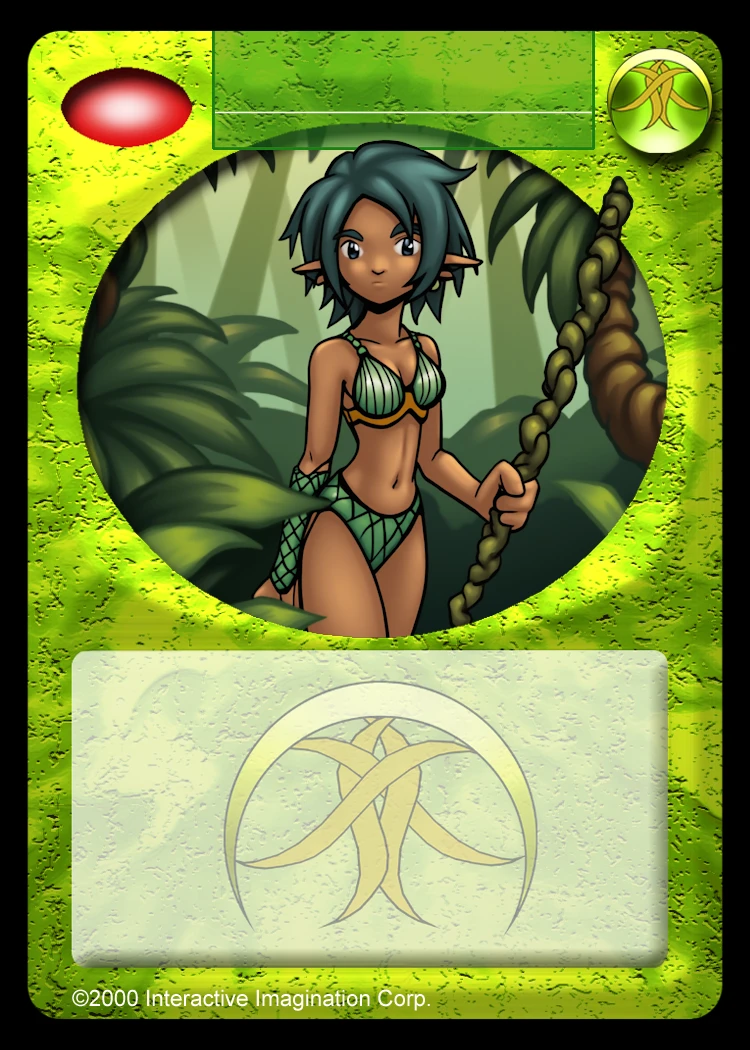
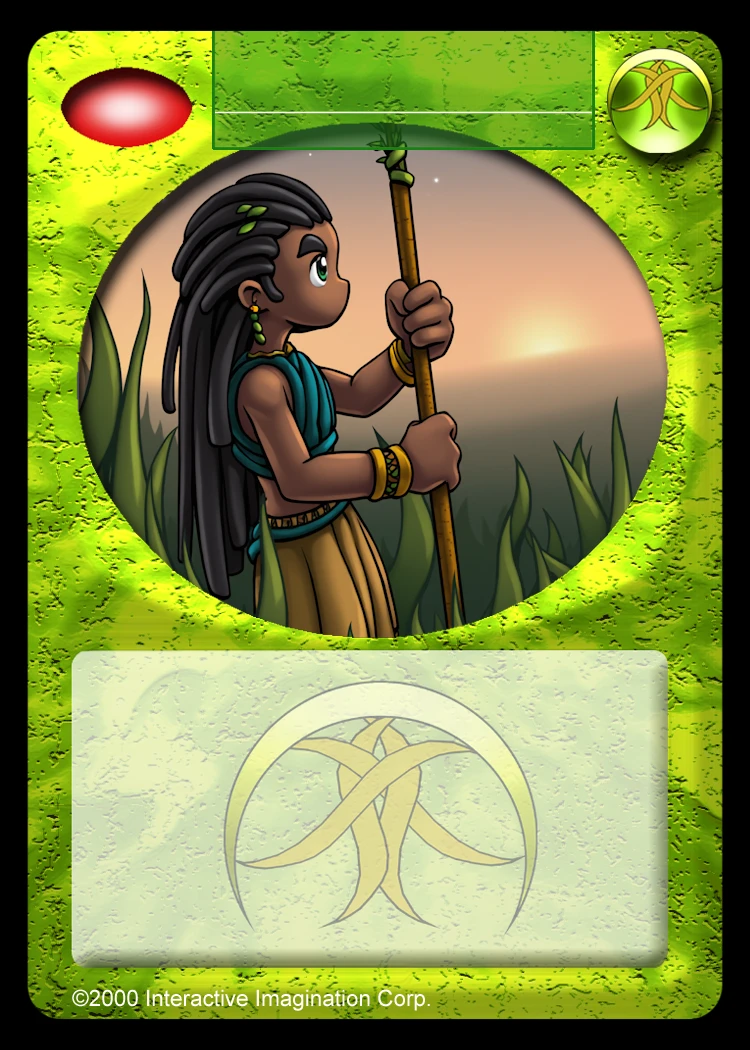
Add weave magi

Changed region(s): [[0.092, 0.1219, 0.8893, 0.6095]]

diff --git a/magi_gallery.html b/magi_gallery.html
@@ -31,6 +31,10 @@
     <img class="gallery-image" src="images/magi_gallery_thumbnails/magi_0134840.webp" data-full="images/magi_gallery/magi_0134840.webp" alt="magi_0134840" data-color="#AAAAAA" width="256" height="256">
   </div>
   <div class="gallery-item">
+    <a href="images/magi_gallery/magi_0331304.webp" style="display: none;">magi_0331304</a>
+    <img class="gallery-image" src="images/magi_gallery_thumbnails/magi_0331304.webp" data-full="images/magi_gallery/magi_0331304.webp" alt="magi_0331304" data-color="#AAAAAA" width="256" height="256">
+  </div>
+  <div class="gallery-item">
     <a href="images/magi_gallery/magi_0379159.webp" style="display: none;">magi_0379159</a>
     <img class="gallery-image" src="images/magi_gallery_thumbnails/magi_0379159.webp" data-full="images/magi_gallery/magi_0379159.webp" alt="magi_0379159" data-color="#AAAAAA" width="256" height="256">
   </div>
@@ -75,6 +79,10 @@
     <img class="gallery-image" src="images/magi_gallery_thumbnails/magi_1054220.webp" data-full="images/magi_gallery/magi_1054220.webp" alt="magi_1054220" data-color="#AAAAAA" width="256" height="256">
   </div>
   <div class="gallery-item">
+    <a href="images/magi_gallery/magi_1111011.webp" style="display: none;">magi_1111011</a>
+    <img class="gallery-image" src="images/magi_gallery_thumbnails/magi_1111011.webp" data-full="images/magi_gallery/magi_1111011.webp" alt="magi_1111011" data-color="#AAAAAA" width="256" height="256">
+  </div>
+  <div class="gallery-item">
     <a href="images/magi_gallery/magi_1159349.webp" style="display: none;">magi_1159349</a>
     <img class="gallery-image" src="images/magi_gallery_thumbnails/magi_1159349.webp" data-full="images/magi_gallery/magi_1159349.webp" alt="magi_1159349" data-color="#AAAAAA" width="256" height="256">
   </div>
@@ -103,8 +111,16 @@
     <img class="gallery-image" src="images/magi_gallery_thumbnails/magi_1961368.webp" data-full="images/magi_gallery/magi_1961368.webp" alt="magi_1961368" data-color="#AAAAAA" width="256" height="256">
   </div>
   <div class="gallery-item">
+    <a href="images/magi_gallery/magi_2015871.webp" style="display: none;">magi_2015871</a>
+    <img class="gallery-image" src="images/magi_gallery_thumbnails/magi_2015871.webp" data-full="images/magi_gallery/magi_2015871.webp" alt="magi_2015871" data-color="#AAAAAA" width="256" height="256">
+  </div>
+  <div class="gallery-item">
     <a href="images/magi_gallery/magi_2054078.webp" style="display: none;">magi_2054078</a>
     <img class="gallery-image" src="images/magi_gallery_thumbnails/magi_2054078.webp" data-full="images/magi_gallery/magi_2054078.webp" alt="magi_2054078" data-color="#AAAAAA" width="256" height="256">
+  </div>
+  <div class="gallery-item">
+    <a href="images/magi_gallery/magi_2111374.webp" style="display: none;">magi_2111374</a>
+    <img class="gallery-image" src="images/magi_gallery_thumbnails/magi_2111374.webp" data-full="images/magi_gallery/magi_2111374.webp" alt="magi_2111374" data-color="#AAAAAA" width="256" height="256">
   </div>
   <div class="gallery-item">
     <a href="images/magi_gallery/magi_2198498.webp" style="display: none;">magi_2198498</a>
@@ -113,10 +129,6 @@
   <div class="gallery-item">
     <a href="images/magi_gallery/magi_2354001.webp" style="display: none;">magi_2354001</a>
     <img class="gallery-image" src="images/magi_gallery_thumbnails/magi_2354001.webp" data-full="images/magi_gallery/magi_2354001.webp" alt="magi_2354001" data-color="#AAAAAA" width="256" height="256">
-  </div>
-  <div class="gallery-item">
-    <a href="images/magi_gallery/magi_2390470.webp" style="display: none;">magi_2390470</a>
-    <img class="gallery-image" src="images/magi_gallery_thumbnails/magi_2390470.webp" data-full="images/magi_gallery/magi_2390470.webp" alt="magi_2390470" data-color="#AAAAAA" width="256" height="256">
   </div>
   <div class="gallery-item">
     <a href="images/magi_gallery/magi_2409545.webp" style="display: none;">magi_2409545</a>
@@ -131,8 +143,8 @@
     <img class="gallery-image" src="images/magi_gallery_thumbnails/magi_2901340.webp" data-full="images/magi_gallery/magi_2901340.webp" alt="magi_2901340" data-color="#AAAAAA" width="256" height="256">
   </div>
   <div class="gallery-item">
-    <a href="images/magi_gallery/magi_2926984.webp" style="display: none;">magi_2926984</a>
-    <img class="gallery-image" src="images/magi_gallery_thumbnails/magi_2926984.webp" data-full="images/magi_gallery/magi_2926984.webp" alt="magi_2926984" data-color="#AAAAAA" width="256" height="256">
+    <a href="images/magi_gallery/magi_2964611.webp" style="display: none;">magi_2964611</a>
+    <img class="gallery-image" src="images/magi_gallery_thumbnails/magi_2964611.webp" data-full="images/magi_gallery/magi_2964611.webp" alt="magi_2964611" data-color="#AAAAAA" width="256" height="256">
   </div>
   <div class="gallery-item">
     <a href="images/magi_gallery/magi_3136130.webp" style="display: none;">magi_3136130</a>
@@ -171,12 +183,16 @@
     <img class="gallery-image" src="images/magi_gallery_thumbnails/magi_3850263.webp" data-full="images/magi_gallery/magi_3850263.webp" alt="magi_3850263" data-color="#AAAAAA" width="256" height="256">
   </div>
   <div class="gallery-item">
-    <a href="images/magi_gallery/magi_3887218.webp" style="display: none;">magi_3887218</a>
-    <img class="gallery-image" src="images/magi_gallery_thumbnails/magi_3887218.webp" data-full="images/magi_gallery/magi_3887218.webp" alt="magi_3887218" data-color="#AAAAAA" width="256" height="256">
-  </div>
-  <div class="gallery-item">
     <a href="images/magi_gallery/magi_4254749.webp" style="display: none;">magi_4254749</a>
     <img class="gallery-image" src="images/magi_gallery_thumbnails/magi_4254749.webp" data-full="images/magi_gallery/magi_4254749.webp" alt="magi_4254749" data-color="#AAAAAA" width="256" height="256">
+  </div>
+  <div class="gallery-item">
+    <a href="images/magi_gallery/magi_4256672.webp" style="display: none;">magi_4256672</a>
+    <img class="gallery-image" src="images/magi_gallery_thumbnails/magi_4256672.webp" data-full="images/magi_gallery/magi_4256672.webp" alt="magi_4256672" data-color="#AAAAAA" width="256" height="256">
+  </div>
+  <div class="gallery-item">
+    <a href="images/magi_gallery/magi_4360192.webp" style="display: none;">magi_4360192</a>
+    <img class="gallery-image" src="images/magi_gallery_thumbnails/magi_4360192.webp" data-full="images/magi_gallery/magi_4360192.webp" alt="magi_4360192" data-color="#AAAAAA" width="256" height="256">
   </div>
   <div class="gallery-item">
     <a href="images/magi_gallery/magi_4480877.webp" style="display: none;">magi_4480877</a>
@@ -195,8 +211,20 @@
     <img class="gallery-image" src="images/magi_gallery_thumbnails/magi_4834592.webp" data-full="images/magi_gallery/magi_4834592.webp" alt="magi_4834592" data-color="#AAAAAA" width="256" height="256">
   </div>
   <div class="gallery-item">
+    <a href="images/magi_gallery/magi_4938505.webp" style="display: none;">magi_4938505</a>
+    <img class="gallery-image" src="images/magi_gallery_thumbnails/magi_4938505.webp" data-full="images/magi_gallery/magi_4938505.webp" alt="magi_4938505" data-color="#AAAAAA" width="256" height="256">
+  </div>
+  <div class="gallery-item">
+    <a href="images/magi_gallery/magi_4979426.webp" style="display: none;">magi_4979426</a>
+    <img class="gallery-image" src="images/magi_gallery_thumbnails/magi_4979426.webp" data-full="images/magi_gallery/magi_4979426.webp" alt="magi_4979426" data-color="#AAAAAA" width="256" height="256">
+  </div>
+  <div class="gallery-item">
     <a href="images/magi_gallery/magi_5180833.webp" style="display: none;">magi_5180833</a>
     <img class="gallery-image" src="images/magi_gallery_thumbnails/magi_5180833.webp" data-full="images/magi_gallery/magi_5180833.webp" alt="magi_5180833" data-color="#AAAAAA" width="256" height="256">
+  </div>
+  <div class="gallery-item">
+    <a href="images/magi_gallery/magi_5185781.webp" style="display: none;">magi_5185781</a>
+    <img class="gallery-image" src="images/magi_gallery_thumbnails/magi_5185781.webp" data-full="images/magi_gallery/magi_5185781.webp" alt="magi_5185781" data-color="#AAAAAA" width="256" height="256">
   </div>
   <div class="gallery-item">
     <a href="images/magi_gallery/magi_5218910.webp" style="display: none;">magi_5218910</a>
@@ -247,6 +275,10 @@
     <img class="gallery-image" src="images/magi_gallery_thumbnails/magi_6106712.webp" data-full="images/magi_gallery/magi_6106712.webp" alt="magi_6106712" data-color="#AAAAAA" width="256" height="256">
   </div>
   <div class="gallery-item">
+    <a href="images/magi_gallery/magi_6135720.webp" style="display: none;">magi_6135720</a>
+    <img class="gallery-image" src="images/magi_gallery_thumbnails/magi_6135720.webp" data-full="images/magi_gallery/magi_6135720.webp" alt="magi_6135720" data-color="#AAAAAA" width="256" height="256">
+  </div>
+  <div class="gallery-item">
     <a href="images/magi_gallery/magi_6212484.webp" style="display: none;">magi_6212484</a>
     <img class="gallery-image" src="images/magi_gallery_thumbnails/magi_6212484.webp" data-full="images/magi_gallery/magi_6212484.webp" alt="magi_6212484" data-color="#AAAAAA" width="256" height="256">
   </div>
@@ -261,6 +293,10 @@
   <div class="gallery-item">
     <a href="images/magi_gallery/magi_6815049.webp" style="display: none;">magi_6815049</a>
     <img class="gallery-image" src="images/magi_gallery_thumbnails/magi_6815049.webp" data-full="images/magi_gallery/magi_6815049.webp" alt="magi_6815049" data-color="#AAAAAA" width="256" height="256">
+  </div>
+  <div class="gallery-item">
+    <a href="images/magi_gallery/magi_6824390.webp" style="display: none;">magi_6824390</a>
+    <img class="gallery-image" src="images/magi_gallery_thumbnails/magi_6824390.webp" data-full="images/magi_gallery/magi_6824390.webp" alt="magi_6824390" data-color="#AAAAAA" width="256" height="256">
   </div>
   <div class="gallery-item">
     <a href="images/magi_gallery/magi_6879460.webp" style="display: none;">magi_6879460</a>
@@ -283,6 +319,10 @@
     <img class="gallery-image" src="images/magi_gallery_thumbnails/magi_8184212.webp" data-full="images/magi_gallery/magi_8184212.webp" alt="magi_8184212" data-color="#AAAAAA" width="256" height="256">
   </div>
   <div class="gallery-item">
+    <a href="images/magi_gallery/magi_8360612.webp" style="display: none;">magi_8360612</a>
+    <img class="gallery-image" src="images/magi_gallery_thumbnails/magi_8360612.webp" data-full="images/magi_gallery/magi_8360612.webp" alt="magi_8360612" data-color="#AAAAAA" width="256" height="256">
+  </div>
+  <div class="gallery-item">
     <a href="images/magi_gallery/magi_8375803.webp" style="display: none;">magi_8375803</a>
     <img class="gallery-image" src="images/magi_gallery_thumbnails/magi_8375803.webp" data-full="images/magi_gallery/magi_8375803.webp" alt="magi_8375803" data-color="#AAAAAA" width="256" height="256">
   </div>
@@ -293,6 +333,14 @@
   <div class="gallery-item">
     <a href="images/magi_gallery/magi_8471537.webp" style="display: none;">magi_8471537</a>
     <img class="gallery-image" src="images/magi_gallery_thumbnails/magi_8471537.webp" data-full="images/magi_gallery/magi_8471537.webp" alt="magi_8471537" data-color="#AAAAAA" width="256" height="256">
+  </div>
+  <div class="gallery-item">
+    <a href="images/magi_gallery/magi_8569449.webp" style="display: none;">magi_8569449</a>
+    <img class="gallery-image" src="images/magi_gallery_thumbnails/magi_8569449.webp" data-full="images/magi_gallery/magi_8569449.webp" alt="magi_8569449" data-color="#AAAAAA" width="256" height="256">
+  </div>
+  <div class="gallery-item">
+    <a href="images/magi_gallery/magi_8596372.webp" style="display: none;">magi_8596372</a>
+    <img class="gallery-image" src="images/magi_gallery_thumbnails/magi_8596372.webp" data-full="images/magi_gallery/magi_8596372.webp" alt="magi_8596372" data-color="#AAAAAA" width="256" height="256">
   </div>
   <div class="gallery-item">
     <a href="images/magi_gallery/magi_8777658.webp" style="display: none;">magi_8777658</a>
@@ -313,6 +361,10 @@
   <div class="gallery-item">
     <a href="images/magi_gallery/magi_9652970.webp" style="display: none;">magi_9652970</a>
     <img class="gallery-image" src="images/magi_gallery_thumbnails/magi_9652970.webp" data-full="images/magi_gallery/magi_9652970.webp" alt="magi_9652970" data-color="#AAAAAA" width="256" height="256">
+  </div>
+  <div class="gallery-item">
+    <a href="images/magi_gallery/magi_9792527.webp" style="display: none;">magi_9792527</a>
+    <img class="gallery-image" src="images/magi_gallery_thumbnails/magi_9792527.webp" data-full="images/magi_gallery/magi_9792527.webp" alt="magi_9792527" data-color="#AAAAAA" width="256" height="256">
   </div>
   <div class="gallery-item">
     <a href="images/magi_gallery/magi_9958298.webp" style="display: none;">magi_9958298</a>

diff --git a/magi_cards.html b/magi_cards.html
@@ -107,8 +107,24 @@
     <img class="gallery-image" src="images/magi_cards_thumbnails/core_001.webp" data-full="images/magi_cards/core_001.webp" alt="core_001" data-color="#AAAAAA" width="256" height="256">
   </div>
   <div class="gallery-item">
+    <a href="images/magi_cards/core_002.webp" style="display: none;">core_002</a>
+    <img class="gallery-image" src="images/magi_cards_thumbnails/core_002.webp" data-full="images/magi_cards/core_002.webp" alt="core_002" data-color="#AAAAAA" width="256" height="256">
+  </div>
+  <div class="gallery-item">
+    <a href="images/magi_cards/core_003.webp" style="display: none;">core_003</a>
+    <img class="gallery-image" src="images/magi_cards_thumbnails/core_003.webp" data-full="images/magi_cards/core_003.webp" alt="core_003" data-color="#AAAAAA" width="256" height="256">
+  </div>
+  <div class="gallery-item">
     <a href="images/magi_cards/kybarsteeth_000.webp" style="display: none;">kybarsteeth_000</a>
     <img class="gallery-image" src="images/magi_cards_thumbnails/kybarsteeth_000.webp" data-full="images/magi_cards/kybarsteeth_000.webp" alt="kybarsteeth_000" data-color="#AAAAAA" width="256" height="256">
+  </div>
+  <div class="gallery-item">
+    <a href="images/magi_cards/nar_000.webp" style="display: none;">nar_000</a>
+    <img class="gallery-image" src="images/magi_cards_thumbnails/nar_000.webp" data-full="images/magi_cards/nar_000.webp" alt="nar_000" data-color="#AAAAAA" width="256" height="256">
+  </div>
+  <div class="gallery-item">
+    <a href="images/magi_cards/nar_001.webp" style="display: none;">nar_001</a>
+    <img class="gallery-image" src="images/magi_cards_thumbnails/nar_001.webp" data-full="images/magi_cards/nar_001.webp" alt="nar_001" data-color="#AAAAAA" width="256" height="256">
   </div>
   <div class="gallery-item">
     <a href="images/magi_cards/underneath_000.webp" style="display: none;">underneath_000</a>
@@ -117,6 +133,22 @@
   <div class="gallery-item">
     <a href="images/magi_cards/weave_000.webp" style="display: none;">weave_000</a>
     <img class="gallery-image" src="images/magi_cards_thumbnails/weave_000.webp" data-full="images/magi_cards/weave_000.webp" alt="weave_000" data-color="#AAAAAA" width="256" height="256">
+  </div>
+  <div class="gallery-item">
+    <a href="images/magi_cards/weave_002.webp" style="display: none;">weave_002</a>
+    <img class="gallery-image" src="images/magi_cards_thumbnails/weave_002.webp" data-full="images/magi_cards/weave_002.webp" alt="weave_002" data-color="#AAAAAA" width="256" height="256">
+  </div>
+  <div class="gallery-item">
+    <a href="images/magi_cards/weave_003.webp" style="display: none;">weave_003</a>
+    <img class="gallery-image" src="images/magi_cards_thumbnails/weave_003.webp" data-full="images/magi_cards/weave_003.webp" alt="weave_003" data-color="#AAAAAA" width="256" height="256">
+  </div>
+  <div class="gallery-item">
+    <a href="images/magi_cards/weave_004.webp" style="display: none;">weave_004</a>
+    <img class="gallery-image" src="images/magi_cards_thumbnails/weave_004.webp" data-full="images/magi_cards/weave_004.webp" alt="weave_004" data-color="#AAAAAA" width="256" height="256">
+  </div>
+  <div class="gallery-item">
+    <a href="images/magi_cards/weave_005.webp" style="display: none;">weave_005</a>
+    <img class="gallery-image" src="images/magi_cards_thumbnails/weave_005.webp" data-full="images/magi_cards/weave_005.webp" alt="weave_005" data-color="#AAAAAA" width="256" height="256">
   </div>
 </div>
 </div>

diff --git a/reference_generation.html b/reference_generation.html
@@ -23,7 +23,7 @@
 <br>
 <div class="gallery-container">
 <img class="gallery-image" src="images/reference_generation_thumbnails/sarazen_flyer.webp" data-full="images/reference_generation/sarazen_flyer.webp" alt="sarazen_flyer" data-color="#AAAAAA" width="256" height="256">
-</div></div>
+</div>
 </div>
 <div class="gallery-block footer-block">
   <details class="details">
